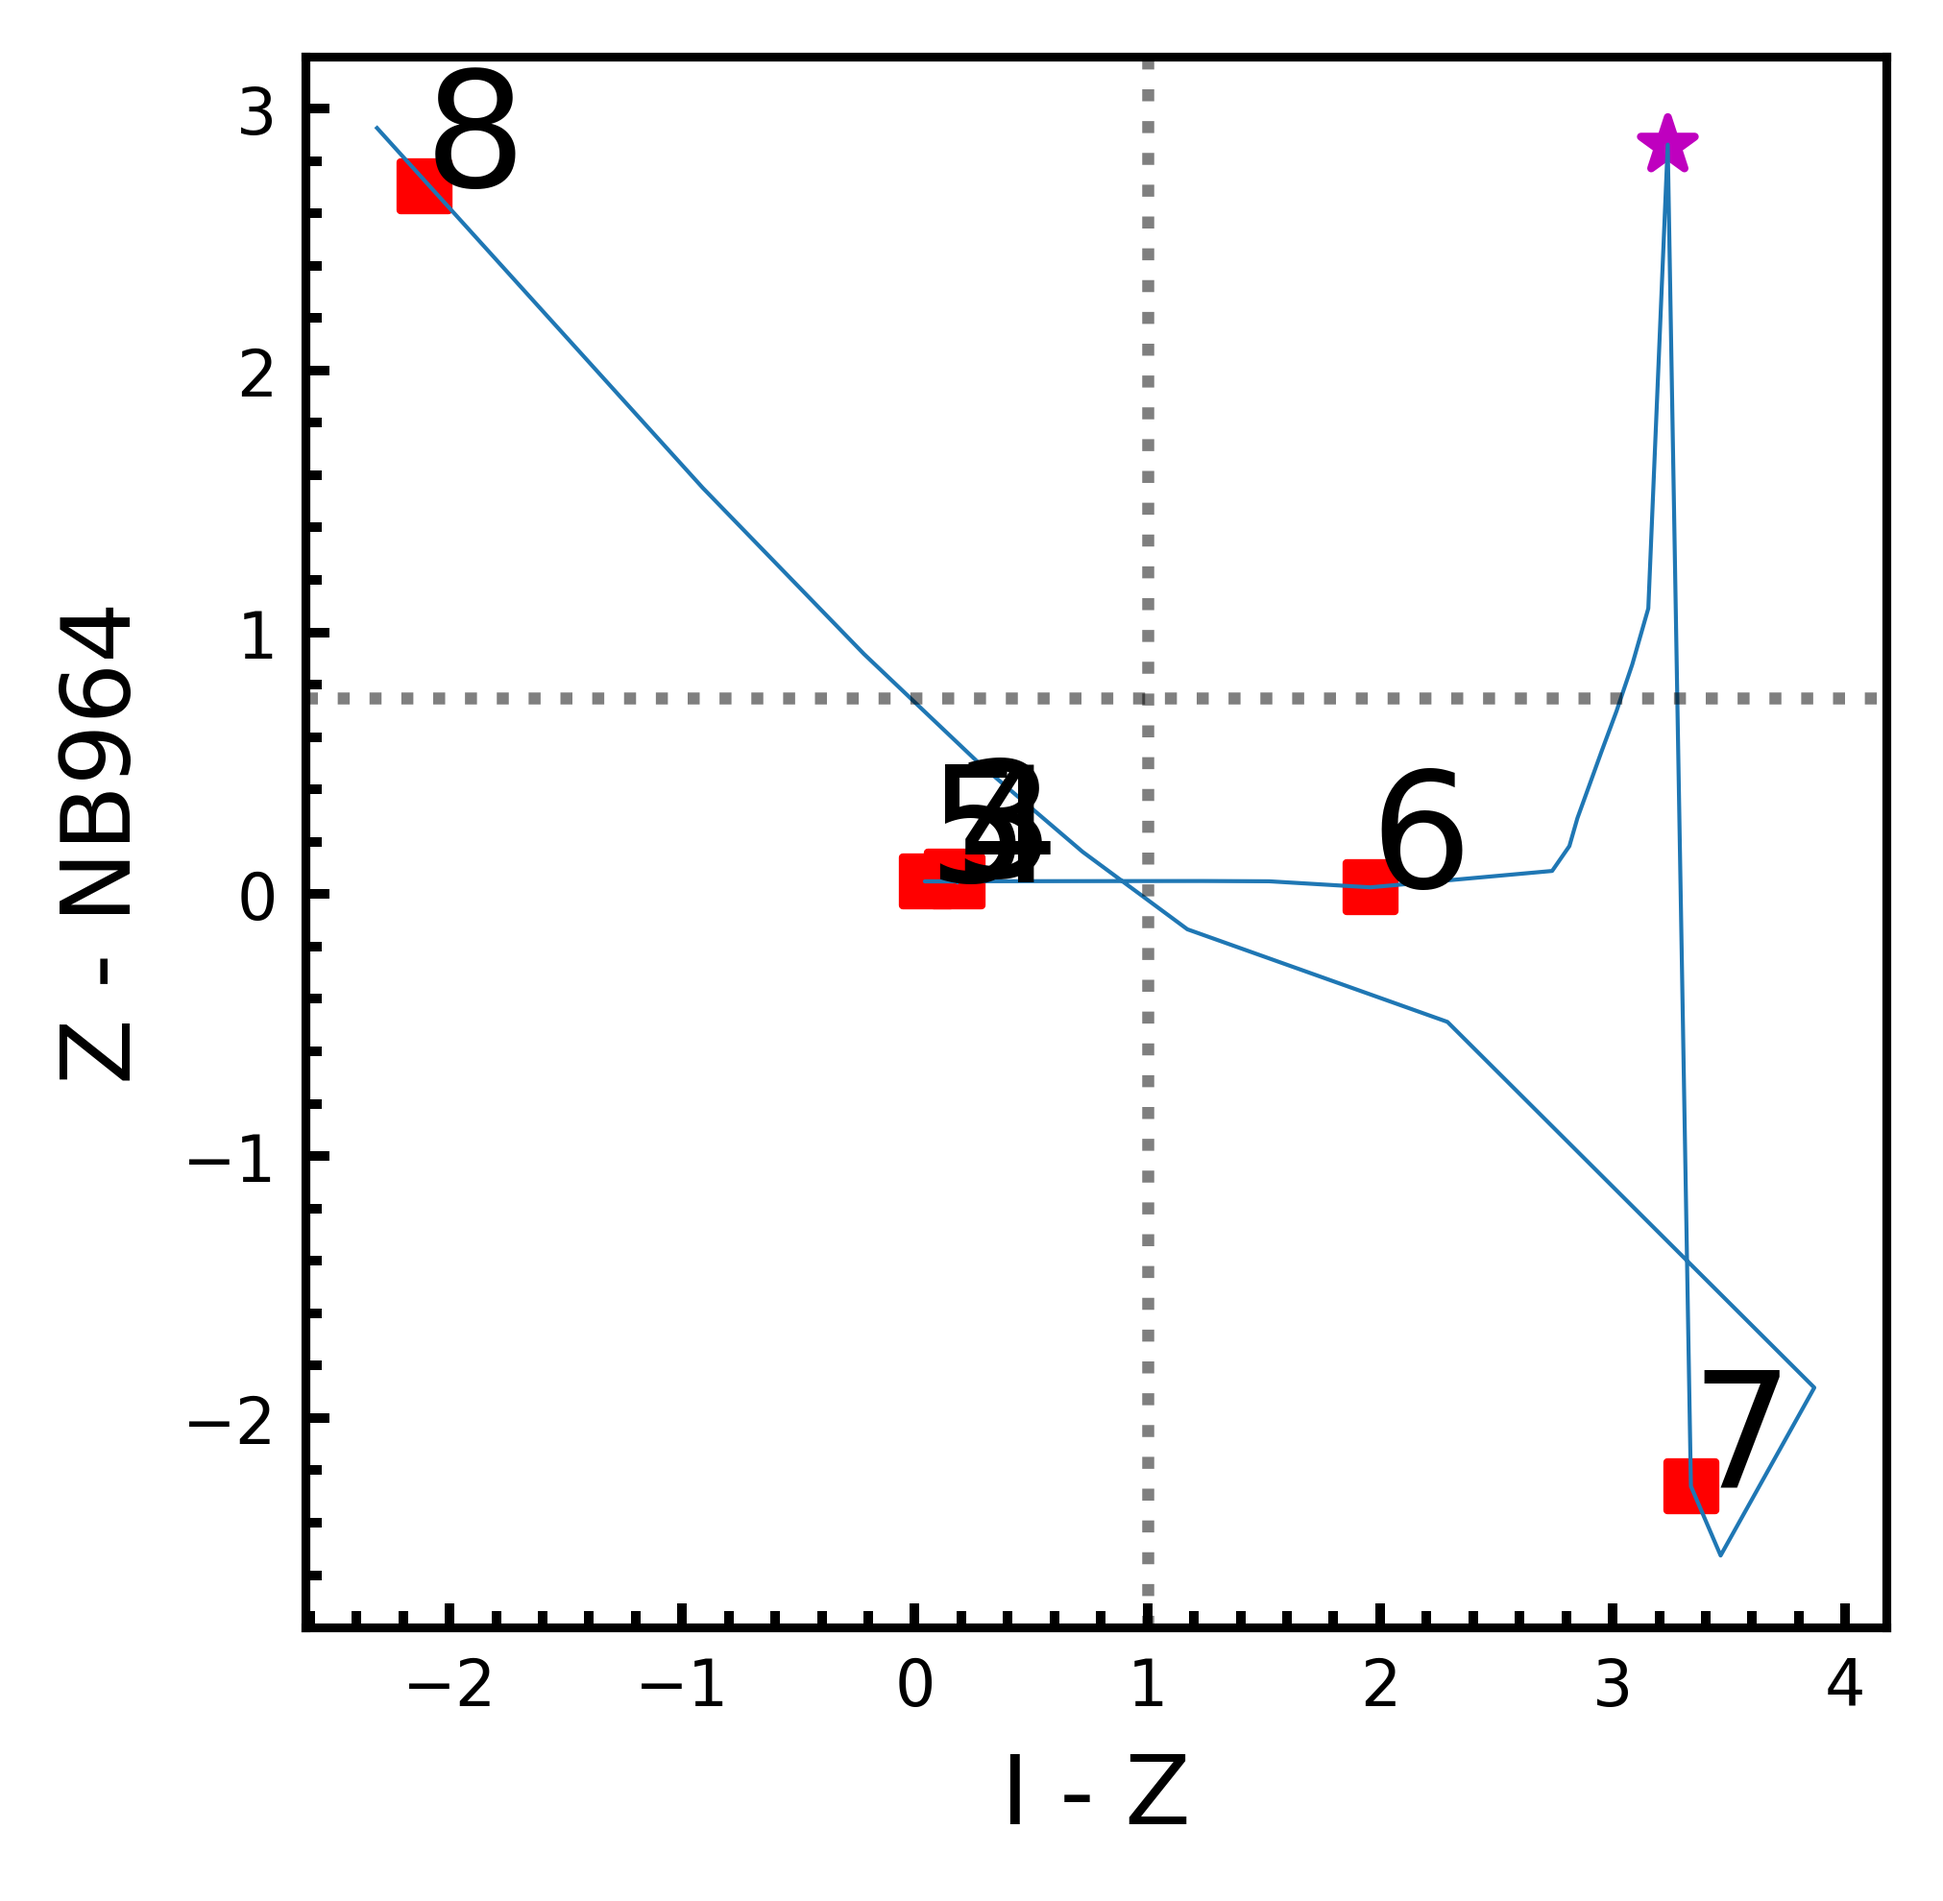
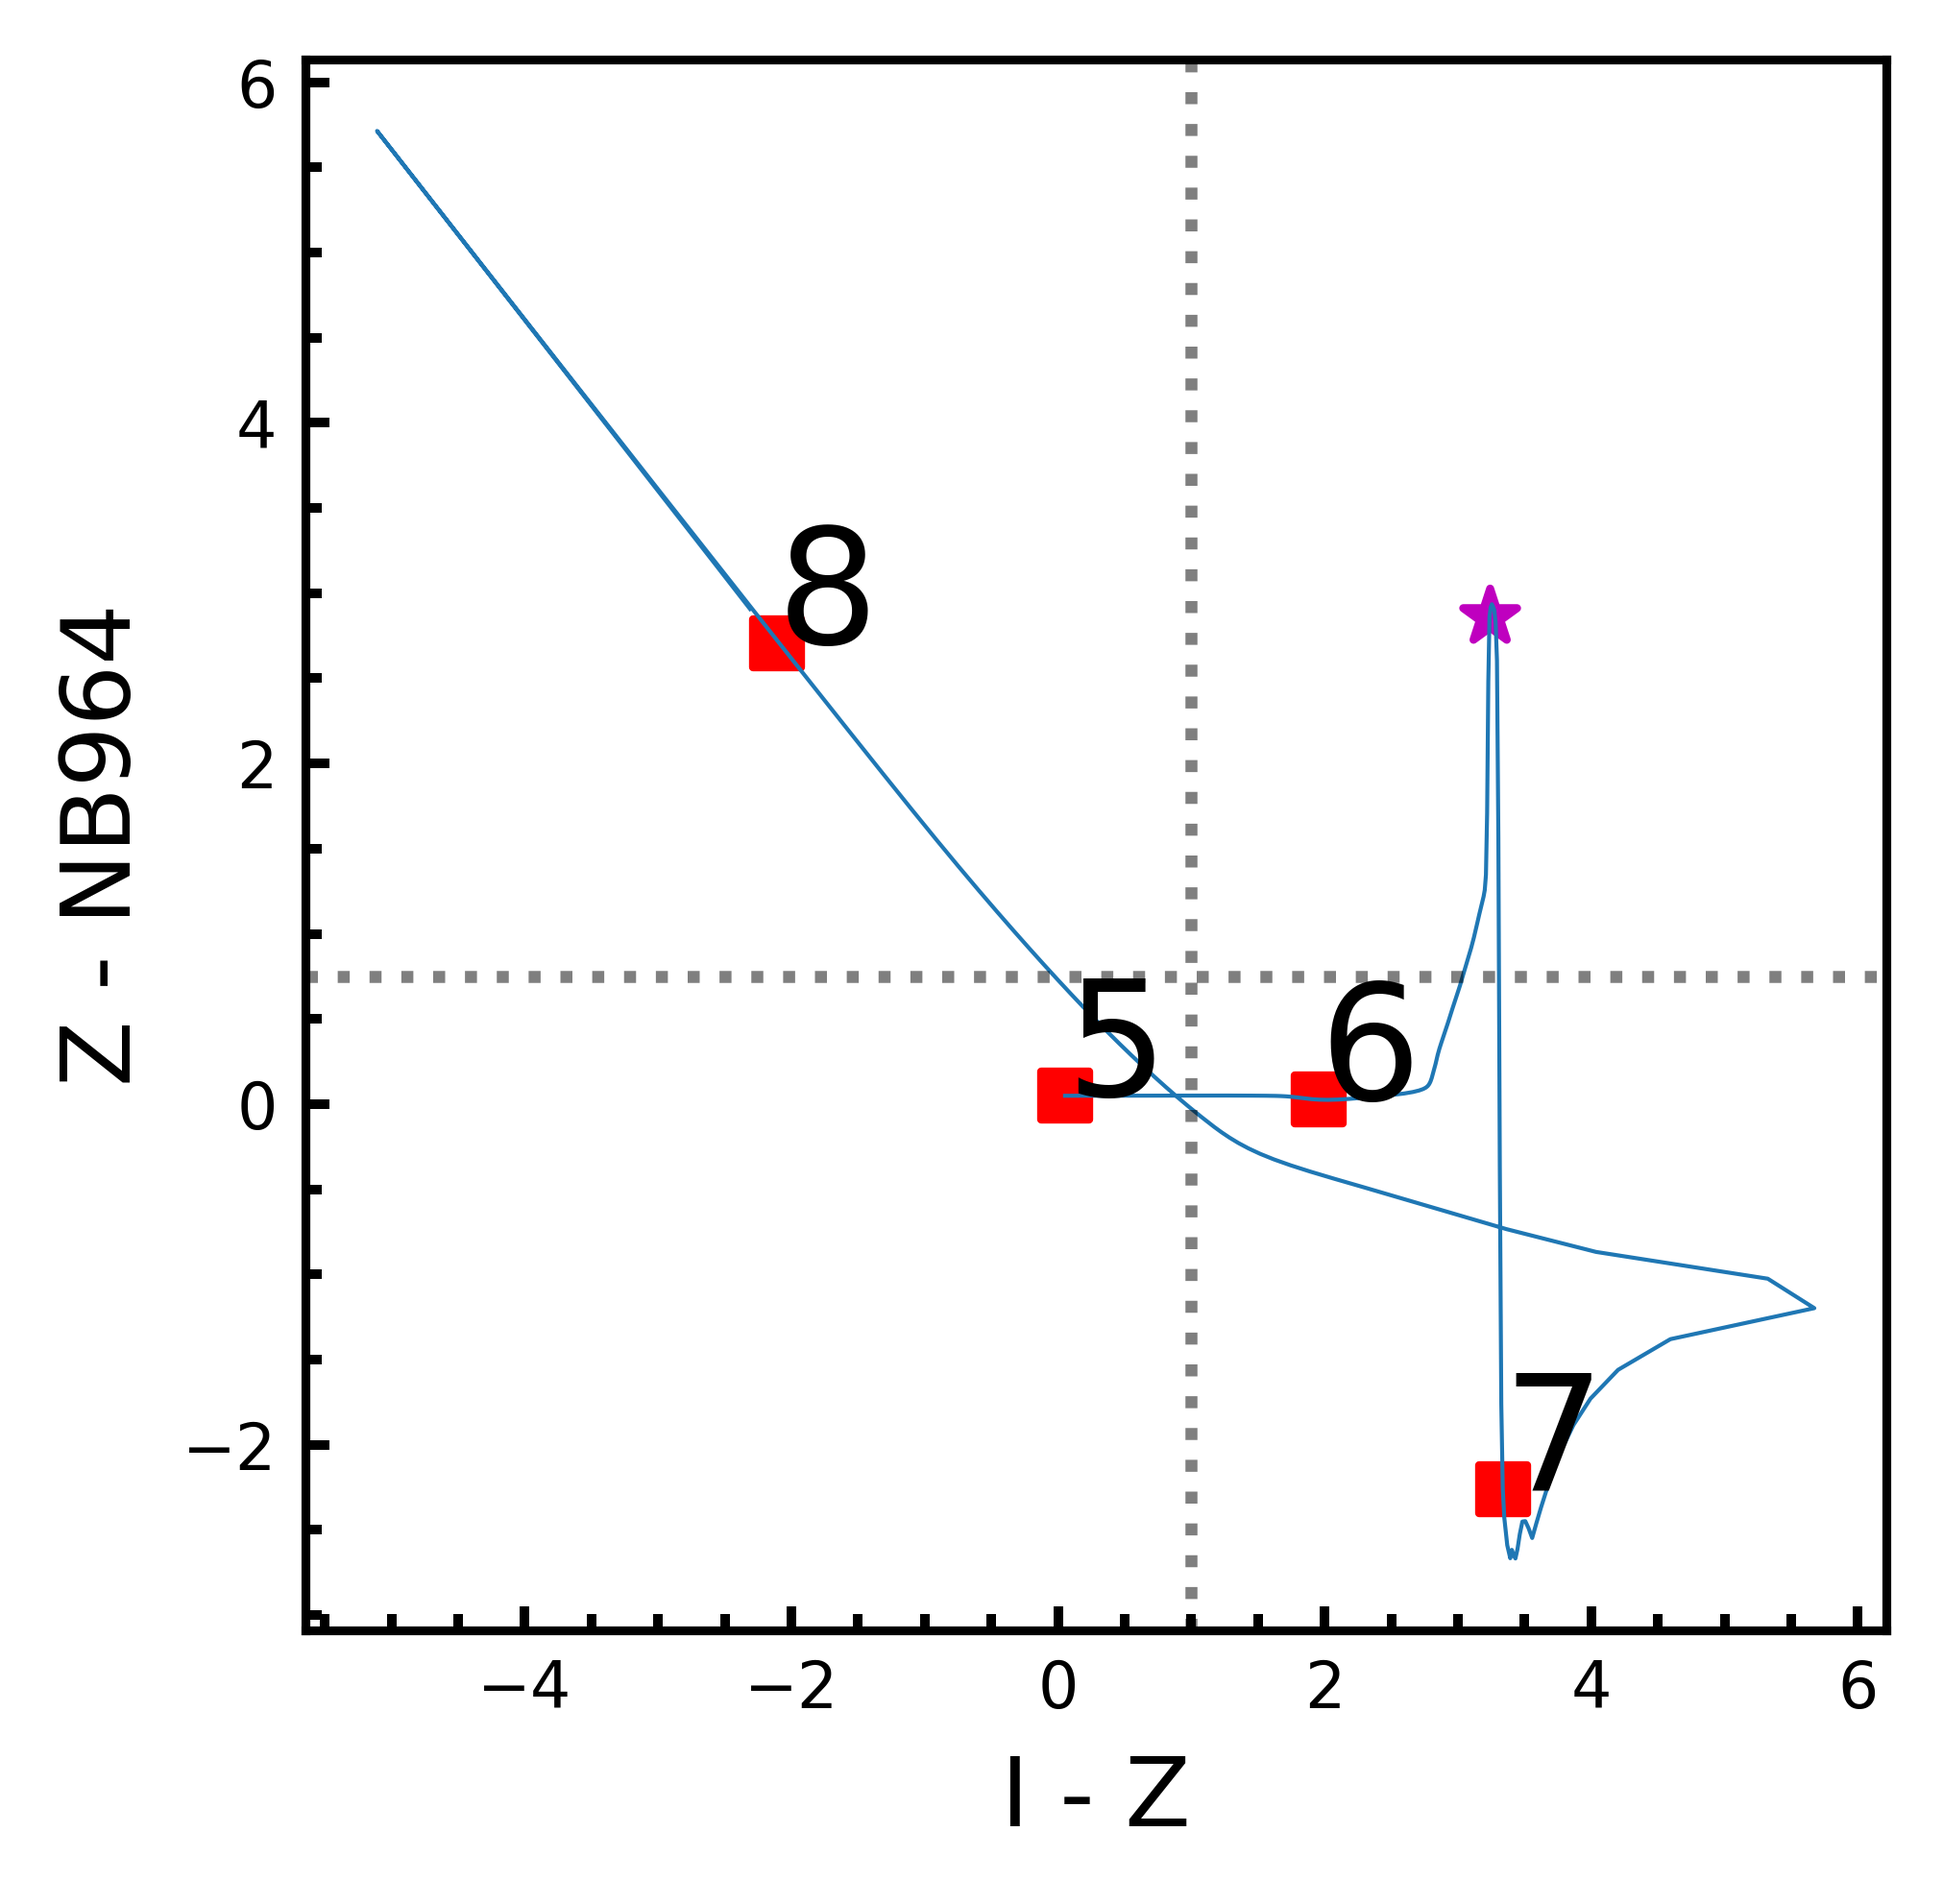
Updating the tracks plot

diff --git a/plot_color_color_model.py b/plot_color_color_model.py
@@ -6,7 +6,7 @@ from rich.progress import track
 import numpy as np
 import matplotlib.pyplot as plt
 from astropy import units as u
-from synphot import Observation, SpectralElement, SourceSpectrum, Empirical1D
+from synphot import Observation, SpectralElement, SourceSpectrum, Empirical1D, etau_madau
 import synphot.units as su
 
 from plotting import start_plot, end_plot
@@ -39,8 +39,8 @@ if __name__ == '__main__':
     z_band = Filter(Z_BANDPASS_FILE)
     i_band = Filter(I_BANDPASS_FILE)
     n_band = Filter(N_BANDPASS_FILE)
-    plot_redshift_range = np.arange(3, 8, 0.1)
-    point_redshift_range = np.arange(3, 9, 1)
+    plot_redshift_range = np.arange(5, 8, 0.01)
+    point_redshift_range = np.arange(5, 9, 1)
 
     def work_out_colors_for_redshift(redshift_range: np.ndarray):
         """Determines the color terms i - z and z-nb for the given redshift range."""
@@ -77,9 +77,9 @@ if __name__ == '__main__':
     z_band_spectrum = z_band.band.to_spectrum1d()
     n_band_spectrum = n_band.band.to_spectrum1d()
 
-    '''i_colors = []
+    i_colors = []
     z_colors = []
-    for redshift in plot_redshift_range:
+    for i, redshift in enumerate(plot_redshift_range):
         spectrum = LaeSpectrum(redshift).spectrum
         spectrum_1d = spectrum.to_spectrum1d()
         fig = plt.figure()
@@ -97,8 +97,8 @@ if __name__ == '__main__':
         ax_spec.set_ylabel('Filter Transmission')
         ax_spec.set_xlim(5000, 12000)
         ax_track.plot(i_colors, z_colors)
-        ax_track.set_xlim(-2, 4)
-        ax_track.set_ylim(-2.6, 3)
+        ax_track.set_xlim(-2, 6)
+        ax_track.set_ylim(-3, 3)
         ax_track.axhline(0.75, ls=':', color='k')
         ax_track.axvline(1, ls=':', color='k')
         ax_spec_real = ax_spec.twinx()
@@ -109,12 +109,12 @@ if __name__ == '__main__':
         ax_spec_real.set_ylabel('Flux [PHOTLAM]')
         ax_track.set_ylabel('Z - NB965')
         ax_track.set_xlabel('I - Z')
-        plt.savefig(f'test_delete_{round(redshift, 1)}.png')
-        plt.close()'''
+        plt.savefig(f'test_delete_{i}.png')
+        plt.close()
 
 
     #GIF Shapely
-    infile_shapely = 'shapely_template.dat'
+    '''infile_shapely = 'shapely_template.dat'
     wave, flux = np.loadtxt(infile_shapely, unpack=True)
     wave = wave*u.angstrom
     flux = flux*su.FNU
@@ -122,8 +122,10 @@ if __name__ == '__main__':
 
     i_colors = []
     z_colors = []
-    for redshift in np.arange(4, 8,0.1):
+    for i, redshift in enumerate(np.arange(4, 8, 0.05)):
         spectrum = SourceSpectrum(shapely_spectrum.model, z=redshift, keep_neg=True)
+        extinction_curve = etau_madau(spectrum.to_spectrum1d().spectral_axis, redshift)
+        spectrum = spectrum * extinction_curve
         spectrum_1d = spectrum.to_spectrum1d()
         fig = plt.figure()
         ax_track = fig.add_subplot(121)
@@ -140,7 +142,7 @@ if __name__ == '__main__':
         ax_spec.set_ylabel('Filter Transmission')
         ax_spec.set_xlim(5000, 12000)
         ax_track.plot(i_colors, z_colors)
-        ax_track.set_xlim(-2, 4)
+        ax_track.set_xlim(-2, 6)
         ax_track.set_ylim(-2.6, 3)
         ax_track.axhline(0.75, ls=':', color='k')
         ax_track.axvline(1, ls=':', color='k')
@@ -152,5 +154,5 @@ if __name__ == '__main__':
         ax_spec_real.set_ylabel('Flux [PHOTLAM]')
         ax_track.set_ylabel('Z - NB965')
         ax_track.set_xlabel('I - Z')
-        plt.savefig(f'test_delete_{round(redshift, 1)}.png')
-        plt.close()
+        plt.savefig(f'test_delete_{i}.png')
+        plt.close()'''
